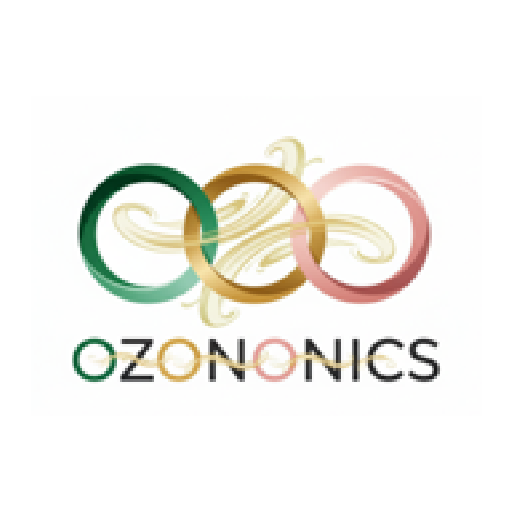
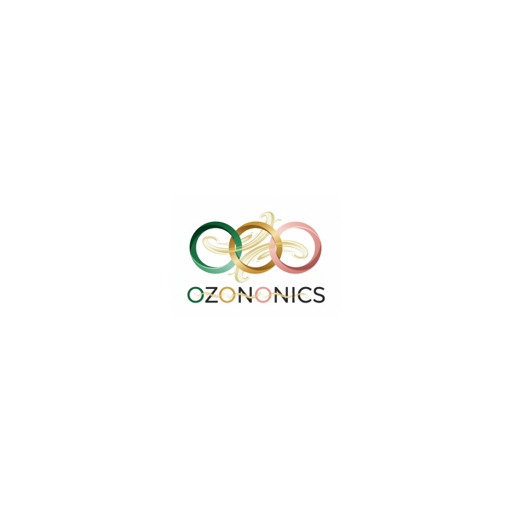
fix: アイコンをpuppeteerで正確生成・SW更新時自動リロードでinstallPrompt発火
- icon-192/512.png: puppeteerで実際のブラウザレンダリングにより正確にリサイズ
- index.js: controllerchange時にwindow.location.reload()
  → 新SW(skipWaiting)が有効化された瞬間にリロード
  → beforeinstallpromptが発火しインストールボタンが表示される

Changed region(s): [[0.125, 0.25, 0.875, 0.75]]

diff --git a/src/index.js b/src/index.js
@@ -47,5 +47,9 @@ reportWebVitals();
 if ('serviceWorker' in navigator) {
   window.addEventListener('load', () => {
     navigator.serviceWorker.register('/service-worker.js').catch(() => {});
+    // 新しいSWが有効化されたら自動リロード → beforeinstallpromptが正しく発火する
+    navigator.serviceWorker.addEventListener('controllerchange', () => {
+      window.location.reload();
+    });
   });
 }
